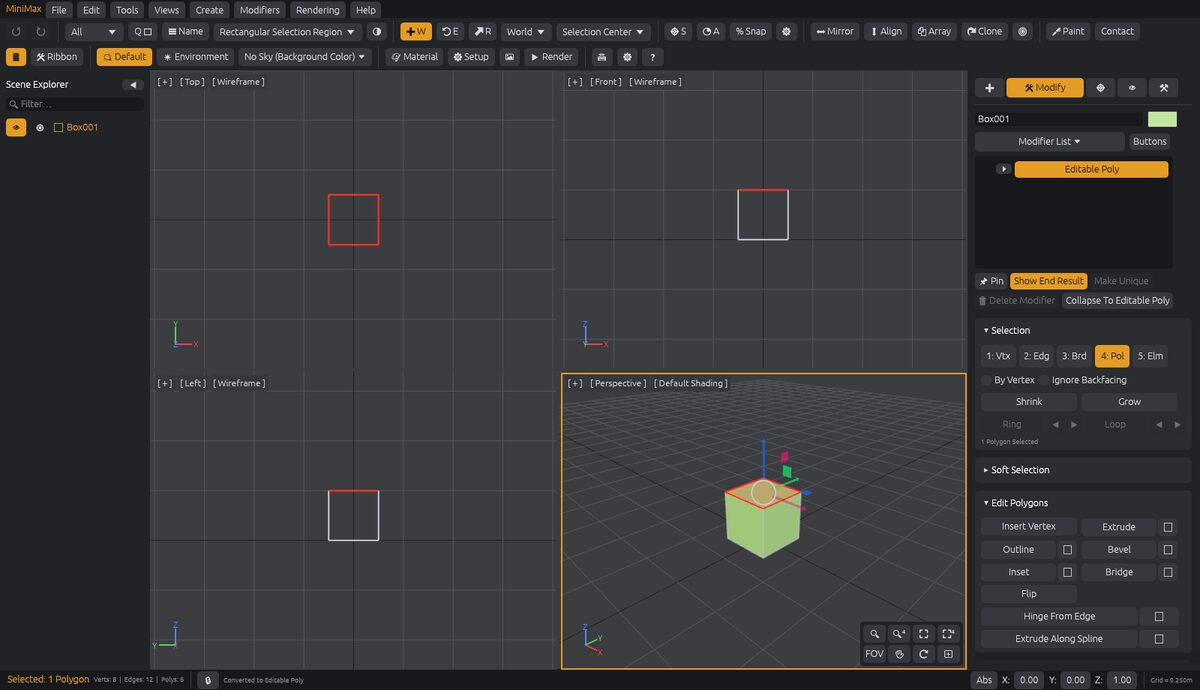
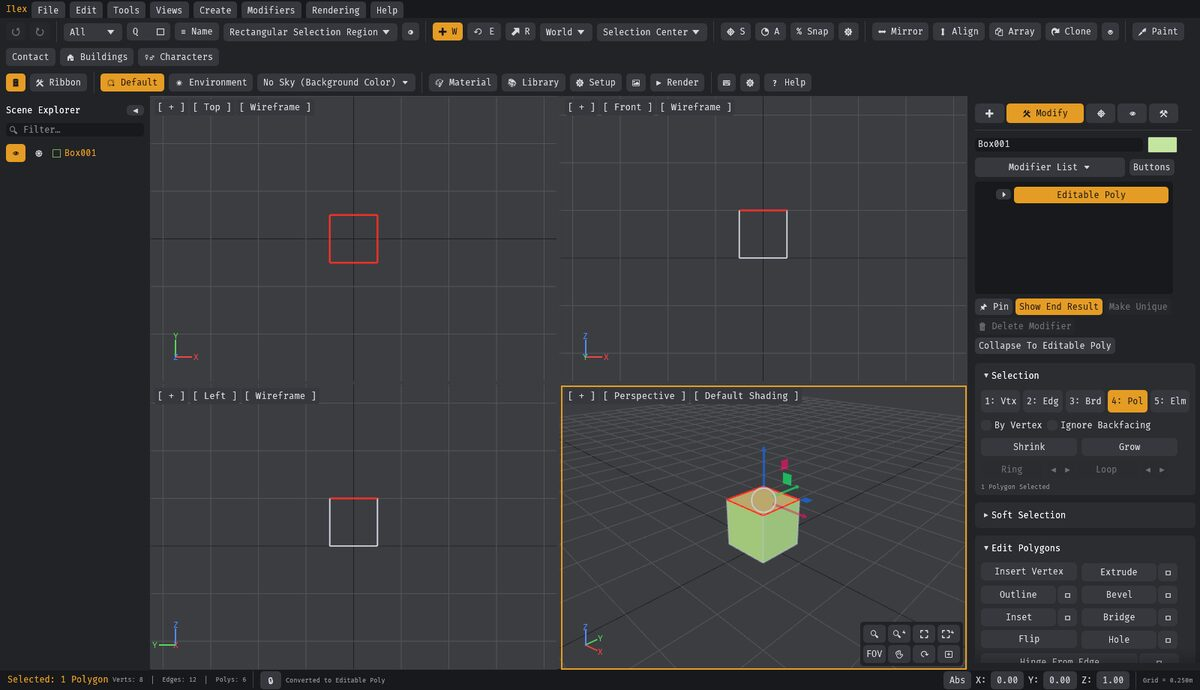
Re-capture Help screenshots and add a characters shot
All 19 Help screenshots now show the Ilex names and current font. A new
characters shot (posed Elf, Dire Wolf, Studio open) heads Help page 17.

Claude-Session: https://claude.ai/code/session_011PQRH9cUne28Q7ZpSbXMA6

diff --git a/src/ui/help/shots.rs b/src/ui/help/shots.rs
@@ -32,11 +32,12 @@ pub const SHOTS: &[(&str, &[u8])] = &[
     ("cad", include_bytes!("../../../assets/help/cad.jpg")),
     ("prefs", include_bytes!("../../../assets/help/prefs.jpg")),
     ("crash", include_bytes!("../../../assets/help/crash.jpg")),
+    ("characters", include_bytes!("../../../assets/help/characters.jpg")),
 ];
 
 /// The ids `tools/help_shots.sh` captures.
-pub const IDS: [&str; 19] = [
-    "layout", "create", "transform", "editpoly", "ribbon", "modifiers", "splines", "materials", "library", "procedural", "paint", "sky", "render", "grading", "ghosttown", "mech", "cad", "prefs", "crash",
+pub const IDS: [&str; 20] = [
+    "layout", "create", "transform", "editpoly", "ribbon", "modifiers", "splines", "materials", "library", "procedural", "paint", "sky", "render", "grading", "ghosttown", "mech", "cad", "prefs", "crash", "characters",
 ];
 
 fn demo(ed: &mut Editor) {
@@ -190,6 +191,23 @@ pub fn setup(ed: &mut Editor, id: &str) -> bool {
         "prefs" => {
             demo(ed);
             ed.iface.prefs_open = true;
+        }
+        "characters" => {
+            use crate::character::params::{Archetype, Creature};
+            use crate::editor::characters::CharacterPick;
+            ed.create_pick(CharacterPick::Creature(Creature::Wolf), Vec3::new(2.2, 0.0, 0.0));
+            let id = ed.create_pick(CharacterPick::Archetype(Archetype::Elf), Vec3::ZERO);
+            let o = &mut ed.scene.objects[id];
+            if let crate::scene::BaseObject::Character(p) = &mut o.base {
+                p.pose = crate::character::rig::presets::PosePreset::Wave.pose();
+            }
+            o.evaluate();
+            for o in ed.scene.objects.values_mut() {
+                o.selected = true;
+            }
+            ed.zoom_extents(true);
+            ed.scene.select_only(Some(id));
+            ed.iface.character_studio_open = true;
         }
         "crash" => {
             demo(ed);

diff --git a/src/ui/help/pages3.rs b/src/ui/help/pages3.rs
@@ -10,6 +10,14 @@ pub const CHARACTERS: Page = Page {
     title: "17. Characters and creatures (MakeHuman)",
     blocks: &[
         P("The Character & Creature Studio builds RPG characters on the MakeHuman hm08 base body (CC0), so every human, elf, dwarf or anime hero starts from a real, clean-topology body."),
+        Shot(
+            "characters",
+            &[
+                m(960.0, 660.0, "An Elf in the Wave pose"),
+                m(1070.0, 790.0, "A Dire Wolf creature"),
+                m(560.0, 160.0, "Studio tiles: click one, then click or drag in a viewport"),
+            ],
+        ),
         H("Making a character"),
         Steps(&[
             "Click ♀♂ Characters on the toolbar (or Tools > Character & Creature Studio..., or Create > Geometry — Characters & Creatures).",

diff --git a/PROJECT_STATUS.md b/PROJECT_STATUS.md
@@ -639,7 +639,7 @@ Objects are drawn as in 3ds Max (`src/editor/create_drag.rs`). Pick a type on th
 - **Checked in the running app:** the rollout, the brick pattern with moss on a box in the viewport, the sample slot, and the Fira Code interface. A contact sheet of eight weathered presets showed relief, AO, puddles and rust as intended.
 - **Not done:**
   - **World / Triplanar mapping and the CC0 asset downloader (PR 5b).** The Poly Haven hosts are blocked in this session's network, so the downloader could not be tested.
-  - The older Help screenshots were not re-captured with the new font.
+  - ~~The older Help screenshots were not re-captured with the new font.~~ Done in Phase 10B: all 20 screenshots were re-captured with the Ilex names and the current font (§33).
 
 ## 21. PR 5.6: layer painter, mesh map baker, damage stamps, Triplanar mapping, asset downloader, decoupled emission
 
@@ -1228,4 +1228,5 @@ I also checked front and side silhouettes of all 11 presets.
 - **Angles** are measured in the rest-pose axes about each joint, not in a per-bone local frame, so big combined rotations can look odd.
 - **Procedural Kit pieces:** hair, armour, capes and weapons are placed from the posed joints but are not bent with the limbs, so a weapon does not follow a raised hand.
 - **Sit and Kneel** have no seat or ground contact solving.
-- **Not tested by hand** in the running app, only by unit tests and the silhouette renders.
+- **Not tested by hand** in the running app, only by unit tests and the silhouette renders.- **Help screenshots:** all 19 Help screenshots were re-captured (`tools/help_shots.sh`) so they show the Ilex names, the current font and toolbar. A new `characters` shot (an Elf in the Wave pose, a Dire Wolf and the Studio open) heads Help page 17.
+
